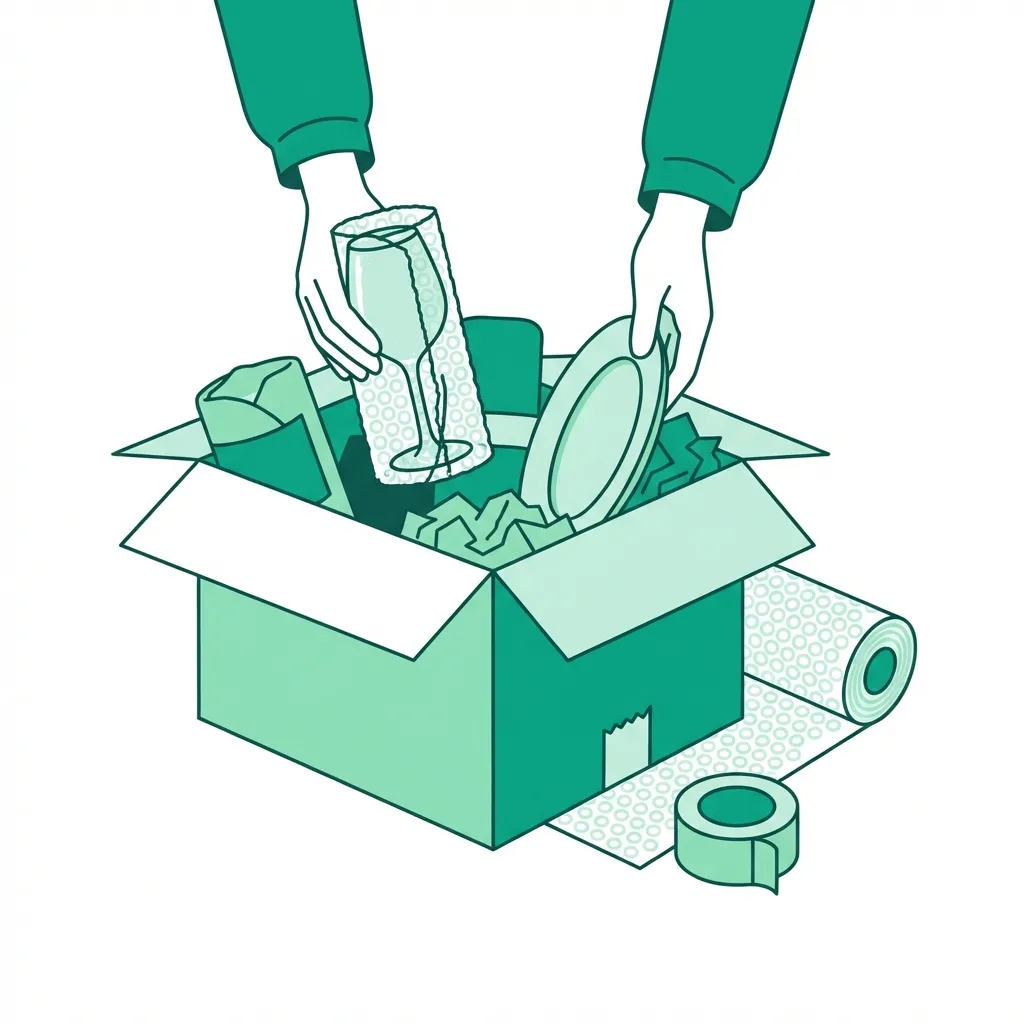
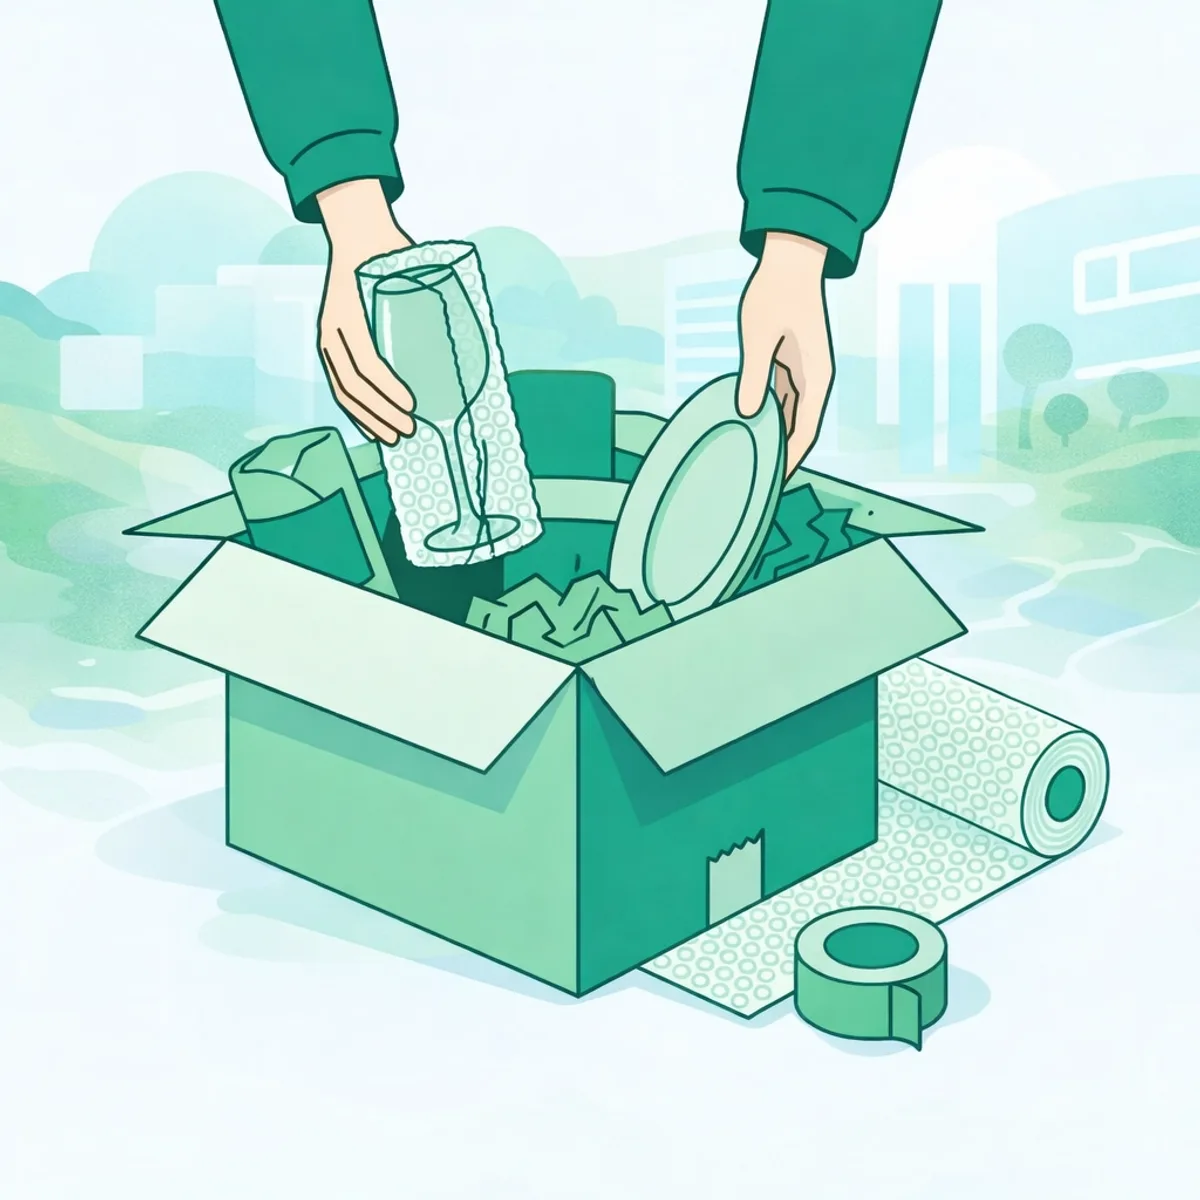
BLOG PIC UPDATE

diff --git a/pages/articole/schimbare-adresa-documente.tsx b/pages/articole/schimbare-adresa-documente.tsx
@@ -117,7 +117,7 @@ export default function GhidSchimbareAdresa() {
                 />
                 <meta property="og:type" content="article" />
                 <meta property="og:url" content="https://ofertemutare.ro/articole/schimbare-adresa-documente" />
-                <meta property="og:image" content="https://ofertemutare.ro/pics/blog/guide-banner-v2.webp" />
+                <meta property="og:image" content="https://ofertemutare.ro/pics/blog/schimbare-adresa-documente.webp" />
                 <meta name="twitter:card" content="summary_large_image" />
                 <meta name="twitter:url" content="https://ofertemutare.ro/articole/schimbare-adresa-documente" />
                 <meta name="twitter:title" content={`Ghid Schimbare Adresă ${currentYear}`} />
@@ -125,7 +125,7 @@ export default function GhidSchimbareAdresa() {
                     name="twitter:description"
                     content="Lista completă de documente pentru schimbarea buletinului și a adresei după mutare."
                 />
-                <meta name="twitter:image" content="https://ofertemutare.ro/pics/blog/guide-banner-v2.webp" />
+                <meta name="twitter:image" content="https://ofertemutare.ro/pics/blog/schimbare-adresa-documente.webp" />
                 <script
                     type="application/ld+json"
                     dangerouslySetInnerHTML={{ __html: JSON.stringify(jsonLd) }}
@@ -137,7 +137,7 @@ export default function GhidSchimbareAdresa() {
         title="Acte Necesare Schimbare Adresă/Domiciliu {currentYear} | Ghid Complet"
         description="Articol despre mutări"
         datePublished="2026-02-02"
-        image="https://ofertemutare.ro/pics/blog/guide-banner-v2.webp"
+        image="https://ofertemutare.ro/pics/blog/schimbare-adresa-documente.webp"
       />
       <BreadcrumbSchema
         items={[
@@ -163,10 +163,10 @@ export default function GhidSchimbareAdresa() {
             ]} />
                         <div className="mb-6 overflow-hidden rounded-2xl shadow-xl">
                             <Image
-                                src="/pics/blog/guide-banner-v2.webp"
-                                alt="Acte Schimbare Adresa"
+                                src="/pics/blog/schimbare-adresa-documente.webp"
+                                alt="Ghid schimbare adresă și acte necesare după mutare"
                                 width={1200}
-                                height={675}
+                                height={1200}
                                 className="h-auto w-full"
                                 priority
                                 sizes="(max-width: 768px) 100vw, (max-width: 1200px) 90vw, 1000px"

diff --git a/pages/blog/index.tsx b/pages/blog/index.tsx
@@ -17,7 +17,7 @@ const blogPosts = [
     category: "Ghid Birocrație",
     readTime: "5 min",
     date: "22 Ian 2026",
-    image: "/pics/blog/guide-banner-v2.webp",
+    image: "/pics/blog/schimbare-adresa-documente.webp",
     gradient: "linear-gradient(to right, #f59e0b, #d97706)",
     link: "/articole/schimbare-adresa-documente",
   },

diff --git a/next-env.d.ts b/next-env.d.ts
@@ -1,6 +1,6 @@
 /// <reference types="next" />
 /// <reference types="next/image-types/global" />
-import "./.next/types/routes.d.ts";
+import "./.next/dev/types/routes.d.ts";
 
 // NOTE: This file should not be edited
 // see https://nextjs.org/docs/pages/api-reference/config/typescript for more information.
